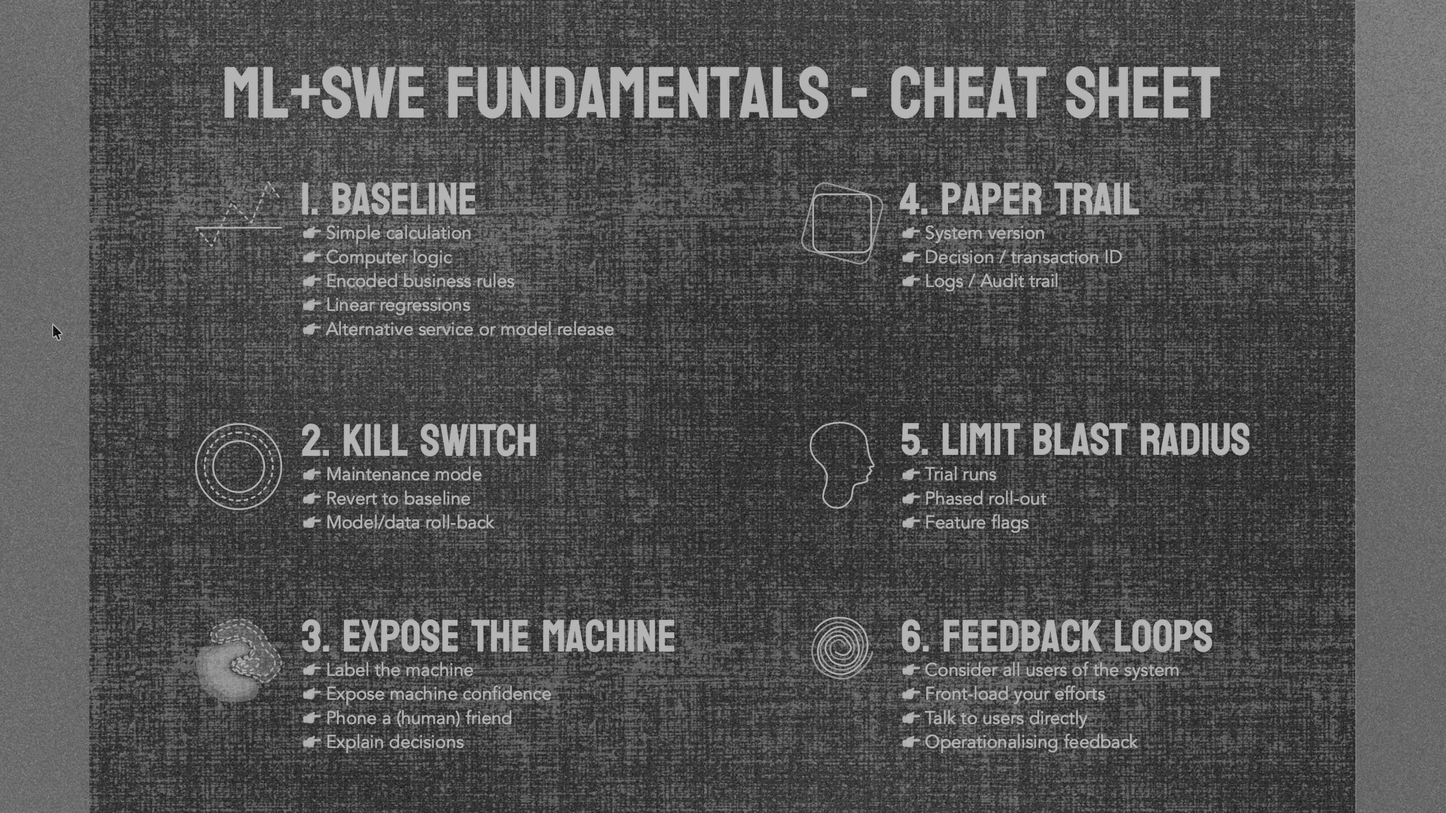
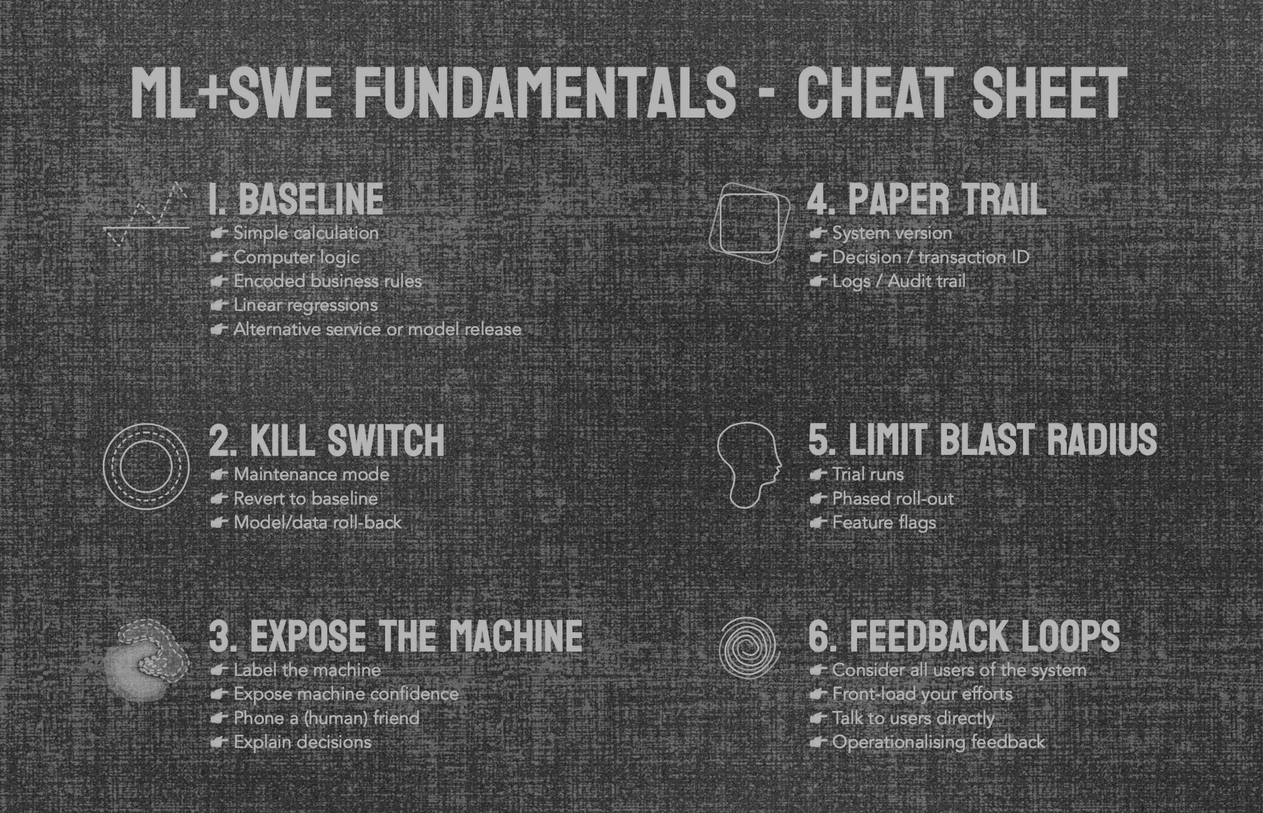
changes to slides

diff --git a/slides/no-you-cant-eval-your-way-to-fairness-pyconit/index.html b/slides/no-you-cant-eval-your-way-to-fairness-pyconit/index.html
@@ -1304,22 +1304,24 @@
 				</section>
 
 
+
+
 				<!-- ==========================================
-				     SLIDE: DESIGN JUSTICE QUOTE — critique
+				     SLIDE: CHEATSHEET — product interventions PDF
 				     ========================================== -->
 				<section>
-					<div class="slide slide--quote">
-						<div class="quote-mark">&laquo;</div>
-						<blockquote>
-							First we should critique <br />(trouble, queer, or denormalize)
-						</blockquote>
-						<div class="quote-mark">&raquo;</div>
-						<p class="quote-attribution">Sasha Costanza-Chock, <em>Design Justice</em>, p. 57</p>
-
-						<aside class="notes">Critique = creating productive discomfort, questioning the "unmarked user."
-							Sitting in uncertainty. Taking the first step knowing you'll get things wrong.</aside>
+					<div class="slide slide--photo-top">
+						<div class="slide-photo">
+							<img src="img/cheatsheet.jpg" alt="Product interventions cheatsheet PDF preview" />
+						</div>
+						<div class="slide-text">
+							<h2>cheatsheet</h2>
+							<p class="text-light text-small">Get the <a href="img/cheatsheet.pdf" target="_blank"
+									rel="noopener">product interventions cheatsheet</a>.</p>
+						</div>
 					</div>
 				</section>
+
 
 				<!-- ==========================================
 				     SLIDE: UPSTREAM INTERVENTION SPECTRUM — list
